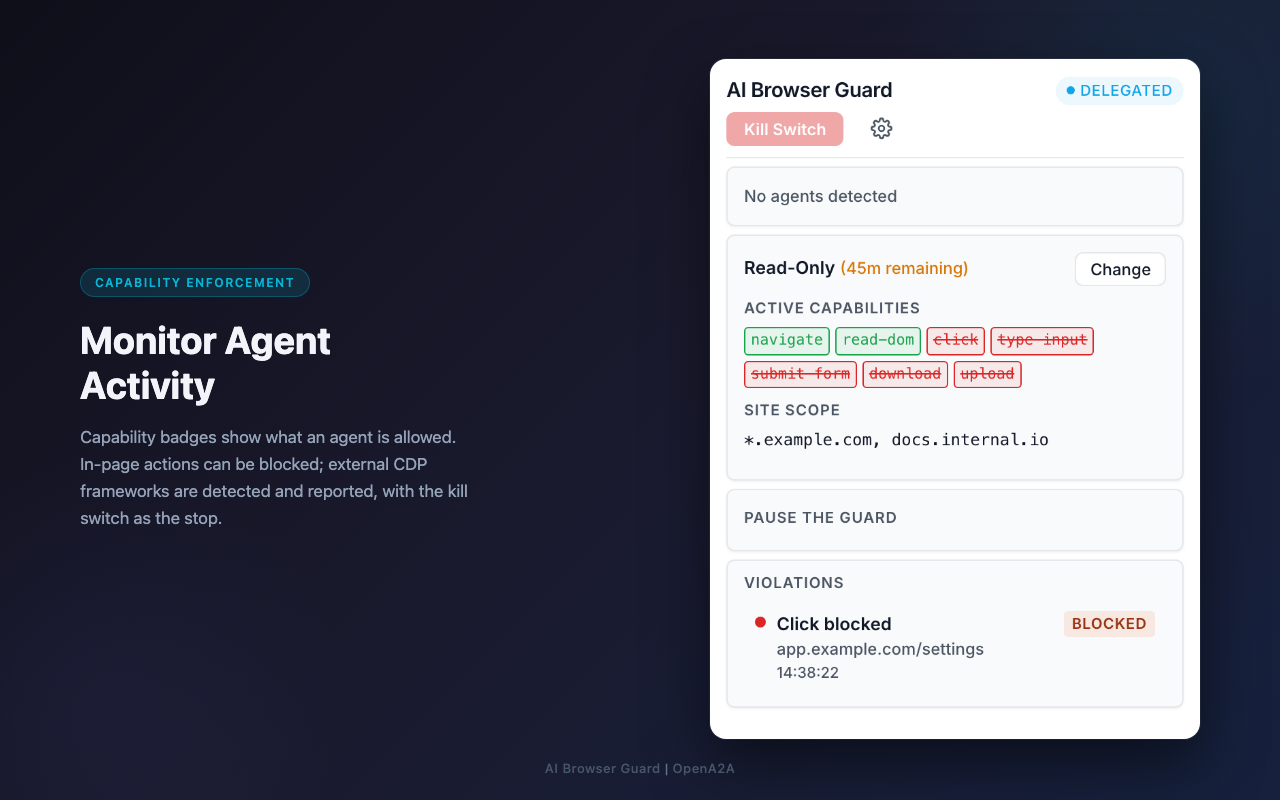
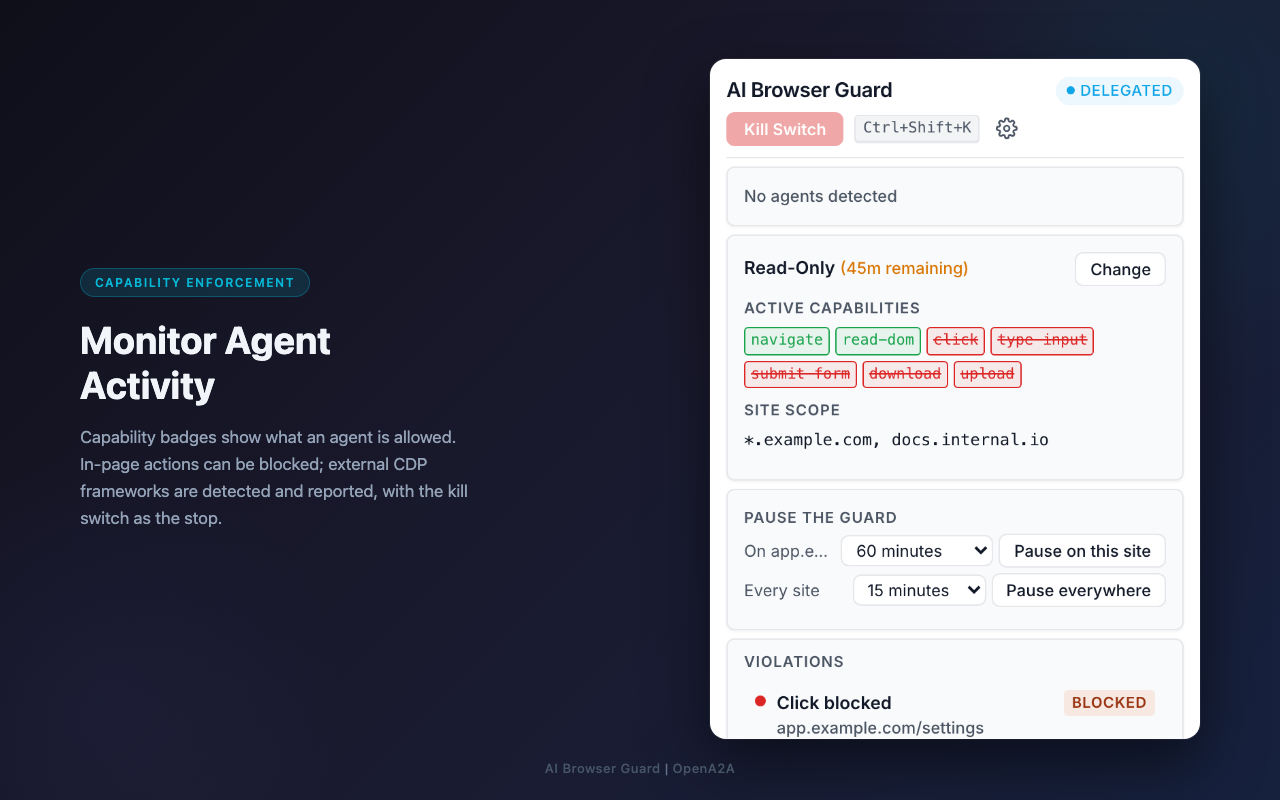
The popup captures show the kill switch key and the Pause the guard controls, as the popup does (#161)
scripts/generate-screenshots.mjs loads the built popup in a plain page,
where chrome.* APIs are not defined, so the popup script stops before it
renders anything and a capture shows the static HTML with the staged
state written into it. Two parts of the popup are empty in that HTML and
filled only at run time: the key bound to the kill switch beside the Kill
Switch button (src/popup/shortcut.ts) and the content of the Pause the
guard panel (src/popup/pause-panel.ts). The captures regenerated for
#161 showed a header with nothing between the Kill Switch and Settings
buttons and a Pause the guard panel with its heading only, a state the
popup never shows: it always shows the key Chrome reports for the kill
switch command, or a "No shortcut: set one" button, and the panel always
holds the pause controls or a note. 2-delegation.png, regenerated
earlier, had the same gaps. The Ctrl+Shift+K chip the March 2026
captures showed was not a sign of their age: the current popup shows the
key beside the Kill Switch button too. The CHANGELOG entry for #161 no
longer lists the chip among what dated the March captures and says what
the captures show at run time.

scripts/screenshot-popup-parts.mjs draws both parts the way the popup's
renderers draw them for a staged state: the key the manifest suggests
for the kill switch, read from manifest.json (Ctrl+Shift+K), and in the
Pause the guard panel the "On app.example.com" and "Every site" rows
[…]

diff --git a/src/__tests__/screenshot-popup-parts.test.ts b/src/__tests__/screenshot-popup-parts.test.ts
@@ -1,0 +1,115 @@
+/**
+ * @vitest-environment jsdom
+ *
+ * Regression (#161): scripts/generate-screenshots.mjs captures the built popup
+ * in a plain page without the chrome.* APIs, where the popup script renders
+ * nothing, so the two parts the script fills at run time stayed empty in the
+ * captures: the kill switch key beside the Kill Switch button and the content
+ * of the Pause the guard panel. The captures showed a header with nothing
+ * between the Kill Switch and Settings buttons and a panel with its heading
+ * only, which the popup never shows. scripts/screenshot-popup-parts.mjs draws
+ * both for each staged state; these cases compare what it draws with what the
+ * popup's own renderers draw for the same state.
+ */
+import { describe, it, expect, vi } from 'vitest';
+import { readFileSync } from 'fs';
+import { resolve } from 'path';
+import { drawPopupRuntimeParts } from '../../scripts/screenshot-popup-parts.mjs';
+import { renderKillSwitchShortcut } from '../popup/shortcut';
+import { renderPausePanel } from '../popup/pause-panel';
+
+const ROOT = resolve(__dirname, '../..');
+const MANIFEST_KEY: string = JSON.parse(readFileSync(resolve(ROOT, 'manifest.json'), 'utf-8'))
+  .commands['kill-switch'].suggested_key.default;
+
+interface StagedState {
+  currentHost: string | null;
+  killSwitchActive: boolean;
+}
+
+const STATES: Array<[string, StagedState]> = [
+  ['a website in the active tab', { currentHost: 'app.example.com', killSwitchActive: false }],
+  ['no website in the active tab', { currentHost: null, killSwitchActive: false }],
+  ['the kill switch on', { currentHost: 'app.example.com', killSwitchActive: true }],
+];
+
+/** The popup's HTML, which the generator loads from the build. */
+function loadPopupDocument(): void {
+  const html = readFileSync(resolve(ROOT, 'src/popup/index.html'), 'utf-8');
+  document.body.innerHTML = html.slice(html.indexOf('<body>') + '<body>'.length, html.indexOf('</body>'));
+}
+
+/** What src/popup/shortcut.ts and src/popup/pause-panel.ts render for `state`. */
+async function renderedByPopup(state: StagedState): Promise<{ shortcut: HTMLElement; pause: HTMLElement }> {
+  const shortcut = document.createElement('span');
+  const commands = { getAll: async () => [{ name: 'kill-switch', shortcut: MANIFEST_KEY }] };
+  await renderKillSwitchShortcut(shortcut, commands, () => {});
+  const pause = document.createElement('div');
+  renderPausePanel(
+    pause,
+    { ...state, pauses: [], log: [], error: null, now: Date.now() },
+    { onPause: vi.fn(), onResume: vi.fn() },
+  );
+  return { shortcut, pause };
+}
+
+function selectedValues(el: HTMLElement): string[] {
+  return [...el.querySelectorAll('select')].map((select) => select.value);
+}
+
+describe('popup parts drawn for the store captures (#161)', () => {
+  it.each(STATES)(
+    'with %s, draws the kill switch key and the Pause the guard content as the popup renders them',
+    async (_name, state) => {
+      loadPopupDocument();
+      drawPopupRuntimeParts({ shortcut: MANIFEST_KEY, ...state });
+      const expected = await renderedByPopup(state);
+
+      const shortcut = document.getElementById('kill-switch-shortcut')!;
+      expect(shortcut.innerHTML).toBe(expected.shortcut.innerHTML);
+      expect(shortcut.querySelector('kbd')?.textContent).toBe(MANIFEST_KEY);
+      expect(shortcut.title).toBe(expected.shortcut.title);
+
+      const pause = document.getElementById('pause-content')!;
+      expect(pause.innerHTML).not.toBe('');
+      expect(pause.innerHTML).toBe(expected.pause.innerHTML);
+      expect(selectedValues(pause)).toEqual(selectedValues(expected.pause));
+    },
+  );
+
+  it('shows the pause rows beside a website, and only the note while the kill switch is on', () => {
+    loadPopupDocument();
+    drawPopupRuntimeParts({ shortcut: MANIFEST_KEY, currentHost: 'app.example.com' });
+    const pause = document.getElementById('pause-content')!;
+    expect([...pause.querySelectorAll('.pause-label')].map((el) => el.textContent)).toEqual([
+      'On app.example.com',
+      'Every site',
+    ]);
+    expect([...pause.querySelectorAll('button')].map((el) => el.textContent)).toEqual([
+      'Pause on this site',
+      'Pause everywhere',
+    ]);
+
+    drawPopupRuntimeParts({ shortcut: MANIFEST_KEY, currentHost: 'app.example.com', killSwitchActive: true });
+    expect(pause.textContent).toBe('Pausing is unavailable while the kill switch is on.');
+    expect(pause.querySelector('button')).toBeNull();
+  });
+
+  it('the generator draws them for each capture, with the key the manifest suggests', () => {
+    const generator = readFileSync(resolve(ROOT, 'scripts/generate-screenshots.mjs'), 'utf-8');
+    expect(generator).toContain("import { drawPopupRuntimeParts } from './screenshot-popup-parts.mjs'");
+    expect(generator).toContain(".commands['kill-switch'].suggested_key.default");
+    expect(generator).toContain(
+      'await page.evaluate(drawPopupRuntimeParts, { shortcut: KILL_SWITCH_KEY, ...popupState })',
+    );
+    const captures = generator.split('await screenshot(').slice(1);
+    expect(captures).toHaveLength(4);
+    const states = captures.map((call) => /\n {2}\}, (\{[^\n]*\})\);\n/.exec(call)?.[1]);
+    expect(states).toEqual([
+      "{ currentHost: 'app.example.com' }",
+      "{ currentHost: 'app.example.com' }",
+      "{ currentHost: 'app.example.com' }",
+      "{ currentHost: 'app.example.com', killSwitchActive: true }",
+    ]);
+  });
+});

diff --git a/CHANGELOG.md b/CHANGELOG.md
@@ -80,7 +80,7 @@ All notable changes to AI Browser Guard are documented here.
 - **The release smoke doc names the browser `npm run smoke:playwright` runs in (#143).** It said `npm run smoke:export` runs in Playwright's Chromium and that the other smokes in its automated list use the browser Puppeteer installs, though `npm run smoke:playwright`, one of them, launches Playwright's Chromium. Its table of the browser each smoke needs had no row for `npm run smoke:playwright`. It now names `npm run smoke:export` and `npm run smoke:playwright` as the smokes in that list that run in Playwright's Chromium, and `npm run smoke:arming`, `npm run smoke:downloads` and `npm run smoke:devtools` as the ones that use the browser Puppeteer installs. The table has a row for `npm run smoke:playwright`, Playwright's Chromium installed with `npx playwright install chromium`, among the rows that load the extension with `--load-extension`.
 - **The v0.5.0 store text names both conditions that show the contribution tip (#108).** `docs/store-description-v0.5.0.txt` read "Prompted once after 5 detections; dismissible.", though the tip also appears 3 days after the first detection. It now carries the contribution wording of the current store description, which names both.
 - **The store submission text says which release it is for in one place, its heading (#115).** `docs/chrome-web-store-description.md` was headed v0.7.0 while its introduction said the text was for the v0.6.0 submission. Its heading is now the one place it names the release the text is for, `src/__tests__/release-metadata.test.ts` checks that this is the version in `manifest.json`, and the release steps in `CONTRIBUTING.md` say to change it before `npm run bump`. The ADR-009 correction note gave that heading as v0.7.0; it and the Store listing row in `docs/testing/release-smoke.md` now say the heading names the release, which must be the version in `manifest.json`.
-- **The store screenshots and promo tiles show the current popup (#161).** `store-1-detection.png`, `store-3-readOnly.png`, `store-4-killswitch.png` and the two promo tiles in `docs/screenshots/` embedded popup captures last generated in March 2026, with a `Ctrl+Shift+K` chip in the header and an `AI Browser Guard v0.1.0 | OpenA2A` footer, while `store-2-delegation.png` had been regenerated from the current popup. All of them are now captured from the current popup build, which has the Settings button in the header and the Pause the guard panel. `scripts/generate-screenshots.mjs` hides the popup's footer, so no capture shows a version number. Captured again from the current `docs/screenshots/generate.html`, the large promo tile no longer reads "Detect and Control AI Agents in Your Browser" or "kill rogue agents instantly", and the kill switch slide no longer reads "Instantly terminate all agent connections, clear automation flags". Each generator writes the checksums of the images it writes to `docs/screenshots/checksums.json`, and `src/__tests__/store-screenshots.test.ts` checks each committed image against its checksum and checks that the store images were captured from the committed popup captures.
+- **The store screenshots and promo tiles show the current popup (#161).** `store-1-detection.png`, `store-3-readOnly.png`, `store-4-killswitch.png` and the two promo tiles in `docs/screenshots/` embedded popup captures last generated in March 2026, without the Settings button in the header, without the Pause the guard panel and with an `AI Browser Guard v0.1.0 | OpenA2A` footer, while `store-2-delegation.png` had been regenerated from the current popup. All of them are now captured from the current popup build, which has the Settings button in the header and the Pause the guard panel. The captures also show the two parts the popup fills at run time from the browser's extension APIs, which the page the captures are taken from does not have and which `scripts/generate-screenshots.mjs` left empty before: the key bound to the kill switch beside the Kill Switch button, drawn as `Ctrl+Shift+K`, the key the manifest suggests, and the Pause the guard panel's Pause on this site and Pause everywhere rows, or, in the kill switch capture, its note that pausing is unavailable while the kill switch is on. `scripts/generate-screenshots.mjs` hides the popup's footer, so no capture shows a version number. Captured again from the current `docs/screenshots/generate.html`, the large promo tile no longer reads "Detect and Control AI Agents in Your Browser" or "kill rogue agents instantly", and the kill switch slide no longer reads "Instantly terminate all agent connections, clear automation flags". Each generator writes the checksums of the images it writes to `docs/screenshots/checksums.json`, and `src/__tests__/store-screenshots.test.ts` checks each committed image against its checksum and checks that the store images were captured from the committed popup captures.
 
 ## 0.7.0 - 2026-08-03
 
